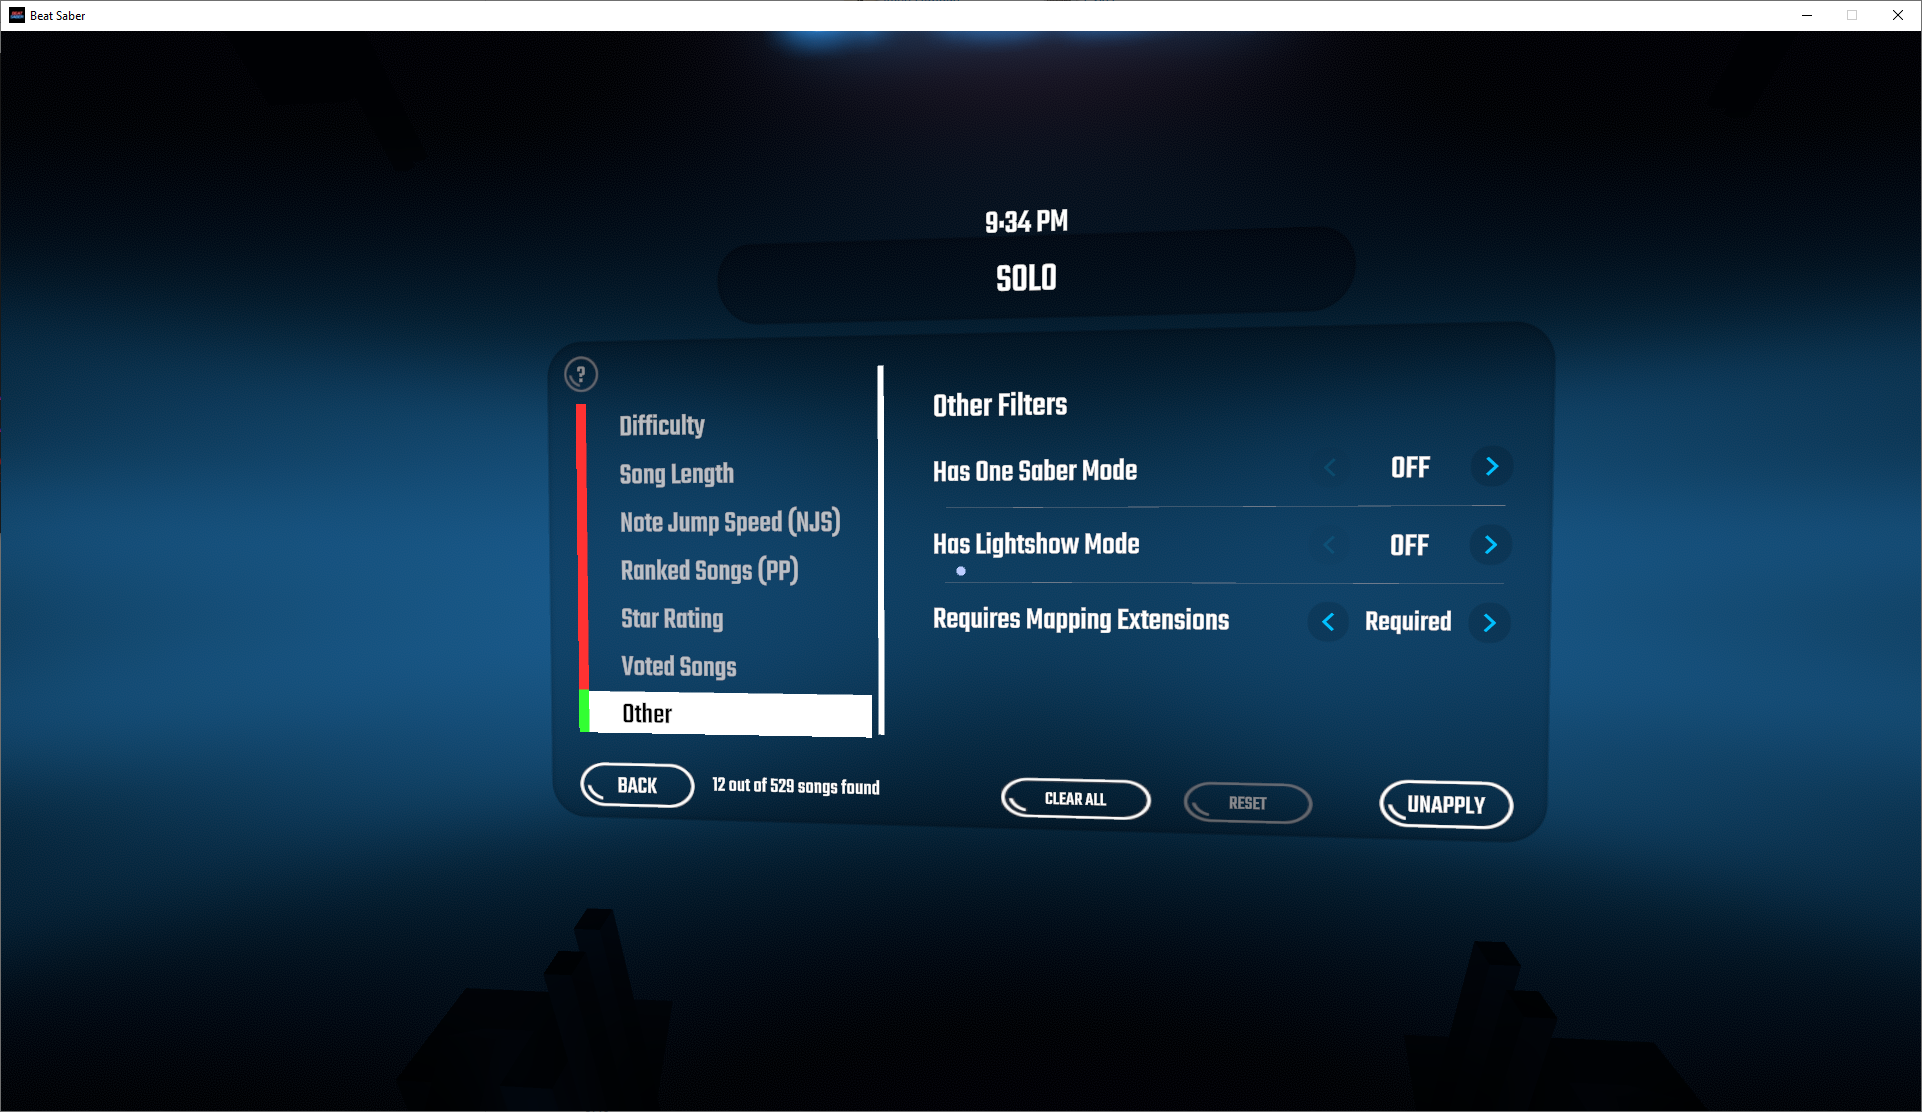
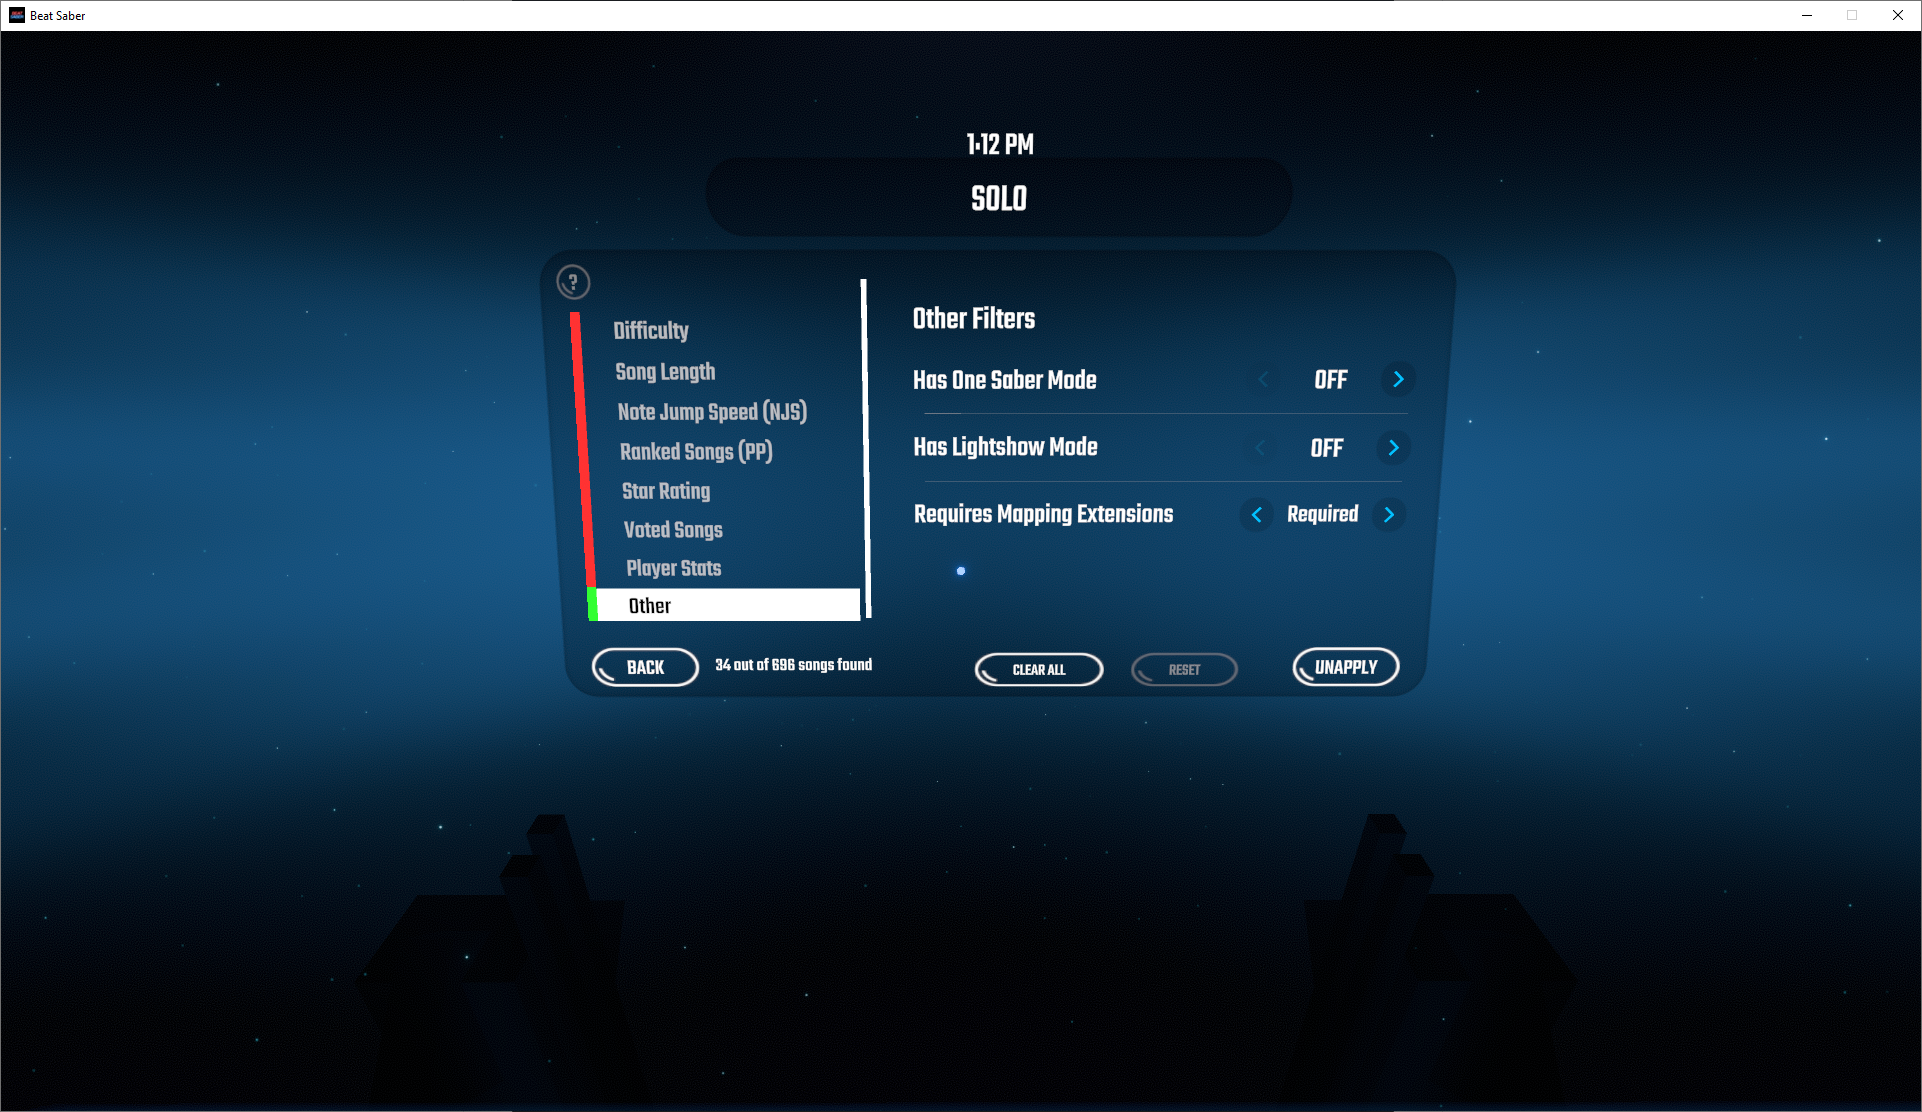
changes README and screenshots
- add text for the player stats filter in the readme
- put more emphasis on the bug report section by giving it a header
- update screenshots

diff --git a/README.md b/README.md
@@ -2,7 +2,9 @@
 
 A mod that helps you find the songs you want to play quicker! Includes a more option-rich search screen and song filtering. The latest version of this mod can be found [here](https://github.com/chrislee0419/EnhancedSearchAndFilters/releases).
 
-_**If you have any suggestions or found any bugs**_, please report it [here](https://github.com/chrislee0419/EnhancedSearchAndFilters/issues) or through Discord at `chris#9068`.
+### Have an issue?
+
+_**If you have any suggestions or found any bugs**_, please report it [here](https://github.com/chrislee0419/EnhancedSearchAndFilters/issues) or through Discord by sending a message to `chris#9068`.
 
 ## Features
 
@@ -20,7 +22,9 @@ _**If you have any suggestions or found any bugs**_, please report it [here](htt
      - Limit song length, difficulties, and NJS on the song list.
      - Find songs you have voted on (requires the BeatSaverDownloader mod).
      - One Saber, Lightshow, and Mapping Extensions-required songs can be easily found!
-     - Find ranked songs (requires the SongDataCore mod).
+     - Show only ranked songs (requires the SongDataCore mod).
+     - Frequently download songs and then forget to play them? Filter for songs that you have never played before.
+     - Looking to full combo all your songs? Find all the songs that you have yet to full combo!
 - Mod compatibility
      - Compatible with BeatSaverDownloader, SongBrowser, and SongDataCore.
 
